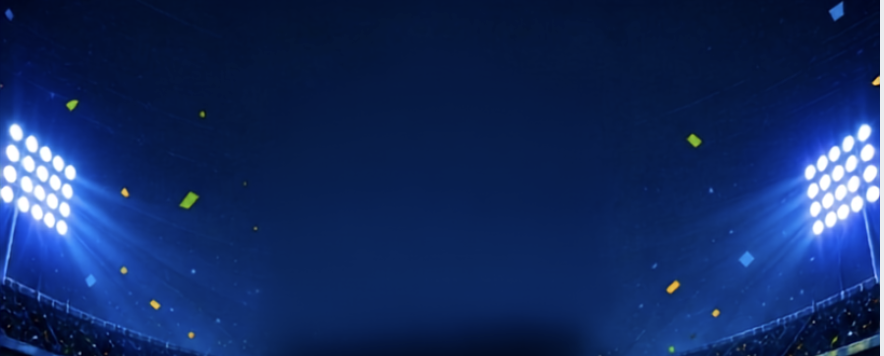
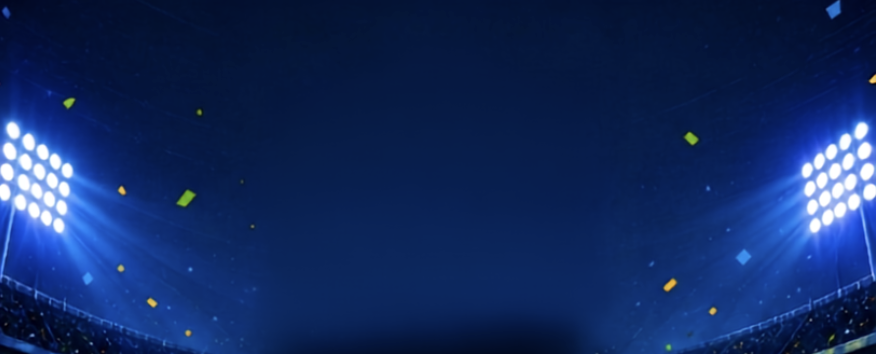
Enhance prediction management with sorting and display updates
- Introduced sorting functionality for predictions based on submission time, allowing users to view predictions in ascending order.
- Updated the prediction management constants to include a new sort direction option (ASC, DESC).
- Enhanced the admin predictions page to support sorting by submission time and added a corresponding dropdown for sort direction.
- Modified prediction detail and list renderers to display submission timestamps.
- Added tests to verify the new sorting functionality by submission time.

diff --git a/public/js/pages/admin-predictions.page.js b/public/js/pages/admin-predictions.page.js
@@ -15,6 +15,7 @@ import { PredictionStatisticsService } from '../prediction/admin/PredictionStati
 import {
   PREDICTION_VIEW_MODE,
   PREDICTION_SORT_FIELD,
+  PREDICTION_SORT_DIRECTION,
   PREDICTION_LIST_PAGE_SIZE,
   PREDICTION_MANAGEMENT_MESSAGES,
 } from '../prediction/admin/prediction-management.constants.js';
@@ -71,6 +72,7 @@ async function initAdminPredictionsPage(outlet) {
     let currentPage = 1;
     let pageSize = PREDICTION_LIST_PAGE_SIZE;
     let sortField = PREDICTION_SORT_FIELD.SUBMITTED_AT;
+    let sortDirection = PREDICTION_SORT_DIRECTION.ASC;
     /** @type {{ search: string, matchId: string, contestantId: string, status: string }} */
     let filterState = {
       search: '',
@@ -87,6 +89,7 @@ async function initAdminPredictionsPage(outlet) {
         currentPage,
         pageSize,
         sortField,
+        sortDirection,
         filterState,
       }),
       setState: (updates) => {
@@ -116,6 +119,12 @@ async function initAdminPredictionsPage(outlet) {
         }
         if (updates.sortField !== undefined) {
           sortField = updates.sortField;
+          sortDirection = updates.sortField === PREDICTION_SORT_FIELD.SUBMITTED_AT
+            ? PREDICTION_SORT_DIRECTION.ASC
+            : PREDICTION_SORT_DIRECTION.DESC;
+        }
+        if (updates.sortDirection !== undefined) {
+          sortDirection = updates.sortDirection;
         }
         if (updates.filterState) {
           filterState = { ...filterState, ...updates.filterState };
@@ -140,6 +149,7 @@ async function initAdminPredictionsPage(outlet) {
             viewMode,
             filterState,
             sortField,
+            sortDirection,
           },
         });
         bindPageHandlers(outlet, handlers);
@@ -168,7 +178,13 @@ async function initAdminPredictionsPage(outlet) {
         return;
       }
 
-      const filtered = applyViewAndFilters(tournamentData, viewMode, filterState, sortField);
+      const filtered = applyViewAndFilters(
+        tournamentData,
+        viewMode,
+        filterState,
+        sortField,
+        sortDirection,
+      );
       const pagination = PredictionManagementDomain.paginatePredictions(
         filtered,
         currentPage,
@@ -199,6 +215,7 @@ async function initAdminPredictionsPage(outlet) {
           contestants,
           filterState,
           sortField,
+          sortDirection,
         },
       });
 
@@ -234,9 +251,10 @@ async function initAdminPredictionsPage(outlet) {
  * @param {string} viewMode
  * @param {Object} filterState
  * @param {string} sortField
+ * @param {'asc'|'desc'} sortDirection
  * @returns {import('../domain/prediction-management.domain.js').EnrichedPrediction[]}
  */
-function applyViewAndFilters(data, viewMode, filterState, sortField) {
+function applyViewAndFilters(data, viewMode, filterState, sortField, sortDirection) {
   let predictions = [...data.predictions];
 
   if (viewMode === PREDICTION_VIEW_MODE.MATCH && filterState.matchId) {
@@ -255,7 +273,7 @@ function applyViewAndFilters(data, viewMode, filterState, sortField) {
   };
 
   const filtered = PredictionManagementDomain.filterPredictions(predictions, scopedFilters);
-  return PredictionManagementDomain.sortPredictions(filtered, sortField, 'desc');
+  return PredictionManagementDomain.sortPredictions(filtered, sortField, sortDirection);
 }
 
 /**
@@ -330,6 +348,13 @@ function bindPageHandlers(outlet, handlers) {
   sortSelect?.addEventListener('change', (event) => {
     const target = /** @type {HTMLSelectElement} */ (event.target);
     handlers.setState({ sortField: target.value });
+    void handlers.paint();
+  });
+
+  const sortDirectionSelect = outlet.querySelector('#predictionSortDirection');
+  sortDirectionSelect?.addEventListener('change', (event) => {
+    const target = /** @type {HTMLSelectElement} */ (event.target);
+    handlers.setState({ sortDirection: target.value });
     void handlers.paint();
   });
 

diff --git a/public/css/components.css b/public/css/components.css
@@ -4048,22 +4048,24 @@
   cursor: help;
 }
 
+.ptw-prediction-table th.ptw-prediction-table__contestant,
+.ptw-prediction-table td.ptw-prediction-table__contestant,
 .ptw-prediction-table th:nth-child(2),
 .ptw-prediction-table td:nth-child(2) {
-  min-width: 9rem;
-  width: 18%;
+  min-width: 12rem;
+  width: 24%;
 }
 
 .ptw-prediction-table th:nth-child(3),
 .ptw-prediction-table td:nth-child(3) {
   min-width: 7rem;
-  width: 12%;
+  width: 11%;
 }
 
 .ptw-prediction-table th:nth-child(4),
 .ptw-prediction-table td:nth-child(4) {
   min-width: 5.5rem;
-  width: 10%;
+  width: 9%;
   text-align: center;
 }
 
@@ -4077,7 +4079,7 @@
 .ptw-prediction-table th:nth-child(6),
 .ptw-prediction-table td:nth-child(6) {
   min-width: 5.5rem;
-  width: 10%;
+  width: 9%;
   text-align: center;
 }
 
@@ -4091,8 +4093,19 @@
 .ptw-prediction-table th:nth-child(8),
 .ptw-prediction-table td:nth-child(8) {
   min-width: 3rem;
-  width: 6%;
+  width: 5%;
   text-align: center;
+}
+
+.ptw-prediction-table th.ptw-prediction-table__submitted-at,
+.ptw-prediction-table td.ptw-prediction-table__submitted-at,
+.ptw-prediction-table th:nth-child(9),
+.ptw-prediction-table td:nth-child(9) {
+  min-width: 9rem;
+  width: 11%;
+  max-width: 11rem;
+  white-space: nowrap;
+  font-size: 0.8125rem;
 }
 
 /* Admin list tabs (tournaments / matches) */

diff --git a/public/js/prediction/admin/renderers/list.renderer.js b/public/js/prediction/admin/renderers/list.renderer.js
@@ -7,12 +7,14 @@ import { renderPageHeader } from '../../../components/page-header.component.js';
 import { ADMIN_PAGE_SHELL_CLASSES } from '../../../components/admin-page-shell.component.js';
 import { renderEmptyState } from '../../../components/empty-state.component.js';
 import { escapeHtml } from '../../../utils/html.util.js';
+import { formatDateTime } from '../../../utils/date.util.js';
 import { renderAvatar } from '../../../shared/avatar/avatar.component.js';
 import {
   PREDICTION_VIEW_MODE,
   PREDICTION_ADMIN_STATUS,
   PREDICTION_ADMIN_STATUS_LABELS,
   PREDICTION_SORT_FIELD,
+  PREDICTION_SORT_DIRECTION,
   PREDICTION_PAGE_SIZE_OPTIONS,
   PREDICTION_MANAGEMENT_MESSAGES,
 } from '../prediction-management.constants.js';
@@ -82,6 +84,7 @@ export function renderPredictionFilters(options) {
     selectedTournamentId = '',
     filterState = {},
     sortField = PREDICTION_SORT_FIELD.SUBMITTED_AT,
+    sortDirection = PREDICTION_SORT_DIRECTION.ASC,
   } = options;
 
   const matchOptions = matches.map((match) => `
@@ -192,6 +195,16 @@ export function renderPredictionFilters(options) {
         </select>
       `,
     }),
+    renderFilterField({
+      label: 'Order',
+      id: 'predictionSortDirection',
+      html: `
+        <select class="form-select" id="predictionSortDirection" aria-label="Sort direction">
+          <option value="${PREDICTION_SORT_DIRECTION.ASC}"${sortDirection === PREDICTION_SORT_DIRECTION.ASC ? ' selected' : ''}>Earliest first</option>
+          <option value="${PREDICTION_SORT_DIRECTION.DESC}"${sortDirection === PREDICTION_SORT_DIRECTION.DESC ? ' selected' : ''}>Latest first</option>
+        </select>
+      `,
+    }),
   ].join('');
 
   return renderFilterBar({ fieldsHtml, extraClass: 'ptw-admin-predictions__filters ptw-filter-bar--scrollable' });
@@ -228,7 +241,7 @@ export function renderPredictionTable(predictions, options = {}) {
     return `
       <tr class="ptw-prediction-row" data-prediction-id="${escapeHtml(prediction.id)}" tabindex="0" role="button" aria-label="View prediction by ${escapeHtml(contestantName)}">
         <td class="ptw-prediction-table__index">${rowNumber}</td>
-        <td>
+        <td class="ptw-prediction-table__contestant">
           <div class="d-flex align-items-center gap-2">
             ${renderAvatar({ photoURL: String(contestant.photoURL ?? ''), size: 28 })}
             <div class="min-w-0 fw-semibold text-truncate">${escapeHtml(contestantName)}</div>
@@ -240,6 +253,7 @@ export function renderPredictionTable(predictions, options = {}) {
         <td>${renderActualScoreHtml(match, result, { compact: true })}</td>
         <td class="d-none d-lg-table-cell">${renderActualWinnerHtml(match, result, { compact: true })}</td>
         <td class="fw-semibold">${renderPointsHtml(prediction, result)}</td>
+        <td class="d-none d-md-table-cell text-nowrap small ptw-prediction-table__submitted-at">${escapeHtml(formatDateTime(prediction.submittedAt) || '—')}</td>
       </tr>
     `;
   }).join('');
@@ -248,6 +262,7 @@ export function renderPredictionTable(predictions, options = {}) {
     <th scope="col">${renderPredictionTableHeader('Actual', 'Score')}</th>
     <th scope="col" class="d-none d-lg-table-cell">${renderPredictionTableHeader('Actual', 'Winner')}</th>
     <th scope="col">Points</th>
+    <th scope="col" class="d-none d-md-table-cell ptw-prediction-table__submitted-at">${renderPredictionTableHeader('Submitted', 'At')}</th>
   `;
 
   const startRecord = totalRecords === 0 ? 0 : (currentPage - 1) * pageSize + 1;
@@ -263,7 +278,7 @@ export function renderPredictionTable(predictions, options = {}) {
         <thead>
           <tr>
             <th scope="col" class="ptw-prediction-table__index">#</th>
-            <th scope="col">Contestant</th>
+            <th scope="col" class="ptw-prediction-table__contestant">Contestant</th>
             <th scope="col" class="d-none d-xl-table-cell">Tournament</th>
             <th scope="col">${renderPredictionTableHeader('Predicted', 'Score')}</th>
             <th scope="col" class="d-none d-md-table-cell">${renderPredictionTableHeader('Predicted', 'Winner')}</th>

diff --git a/tests/prediction-management.domain.test.js b/tests/prediction-management.domain.test.js
@@ -118,6 +118,22 @@ describe('PredictionManagementDomain', () => {
     assert.equal(sorted[1].contestant.displayName, 'Bob');
   });
 
+  it('sorts predictions by submission time ascending', () => {
+    const enriched = samplePredictions.map((prediction) => ({
+      ...prediction,
+      displayStatus: PredictionManagementDomain.resolveDisplayStatus(prediction),
+    }));
+
+    const sorted = PredictionManagementDomain.sortPredictions(
+      enriched,
+      PREDICTION_SORT_FIELD.SUBMITTED_AT,
+      'asc',
+    );
+
+    assert.equal(sorted[0].id, 'p1');
+    assert.equal(sorted[1].id, 'p2');
+  });
+
   it('sorts predictions by points descending', () => {
     const enriched = [
       { ...samplePredictions[0], calculatedPoints: 3 },

diff --git a/public/js/prediction/admin/renderers/detail.renderer.js b/public/js/prediction/admin/renderers/detail.renderer.js
@@ -79,7 +79,13 @@ export function renderPredictionDetailBody(prediction) {
         <p class="mb-1 d-flex align-items-center gap-2 flex-wrap">
           Predicted Winner: ${renderPredictedWinnerHtml(match, prediction, { result })}
         </p>
-        <p class="mb-0">${renderPredictionStatusBadge(prediction.displayStatus ?? prediction.status)}</p>
+        <dl class="row mb-0 small">
+          <dt class="col-5 fw-normal">Submitted</dt>
+          <dd class="col-7">${escapeHtml(formatDateTime(prediction.submittedAt) || '—')}</dd>
+          <dt class="col-5 fw-normal">Last Updated</dt>
+          <dd class="col-7">${escapeHtml(formatDateTime(prediction.updatedAt) || '—')}</dd>
+        </dl>
+        <p class="mb-0 mt-2">${renderPredictionStatusBadge(prediction.displayStatus ?? prediction.status)}</p>
       </div>
 
       ${hasResult ? `

diff --git a/public/js/prediction/admin/prediction-management.constants.js b/public/js/prediction/admin/prediction-management.constants.js
@@ -38,6 +38,12 @@ export const PREDICTION_SORT_FIELD = Object.freeze({
   POINTS: 'points',
 });
 
+/** @enum {string} */
+export const PREDICTION_SORT_DIRECTION = Object.freeze({
+  ASC: 'asc',
+  DESC: 'desc',
+});
+
 /** @type {Readonly<number>} */
 export const PREDICTION_LIST_PAGE_SIZE = 20;
 

diff --git a/public/js/prediction/admin/renderers/prediction-card.renderer.js b/public/js/prediction/admin/renderers/prediction-card.renderer.js
@@ -4,6 +4,7 @@
  */
 
 import { escapeHtml } from '../../../utils/html.util.js';
+import { formatDateTime } from '../../../utils/date.util.js';
 import { renderAvatar } from '../../../shared/avatar/avatar.component.js';
 import {
   resolveContestantDisplayName,
@@ -70,6 +71,10 @@ export function renderPredictionCard(prediction) {
           <div class="col-6">
             ${renderFieldLabel('bi-star-fill', 'Points')}
             <p class="mb-0 fw-semibold ptw-prediction-card__value ptw-prediction-card__points">${renderPointsHtml(prediction, result)}</p>
+          </div>
+          <div class="col-6">
+            ${renderFieldLabel('bi-clock', 'Submitted')}
+            <p class="mb-0 ptw-prediction-card__value">${escapeHtml(formatDateTime(prediction.submittedAt) || '—')}</p>
           </div>
         </div>
       </div>